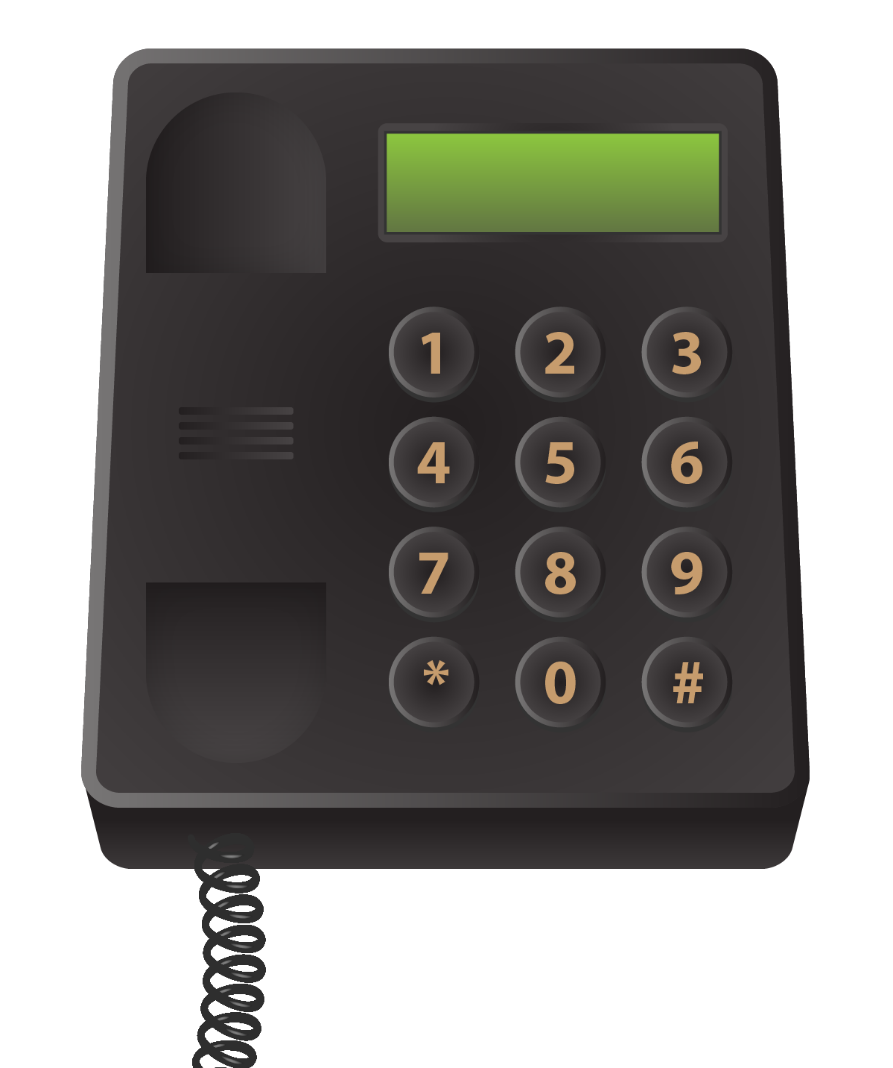
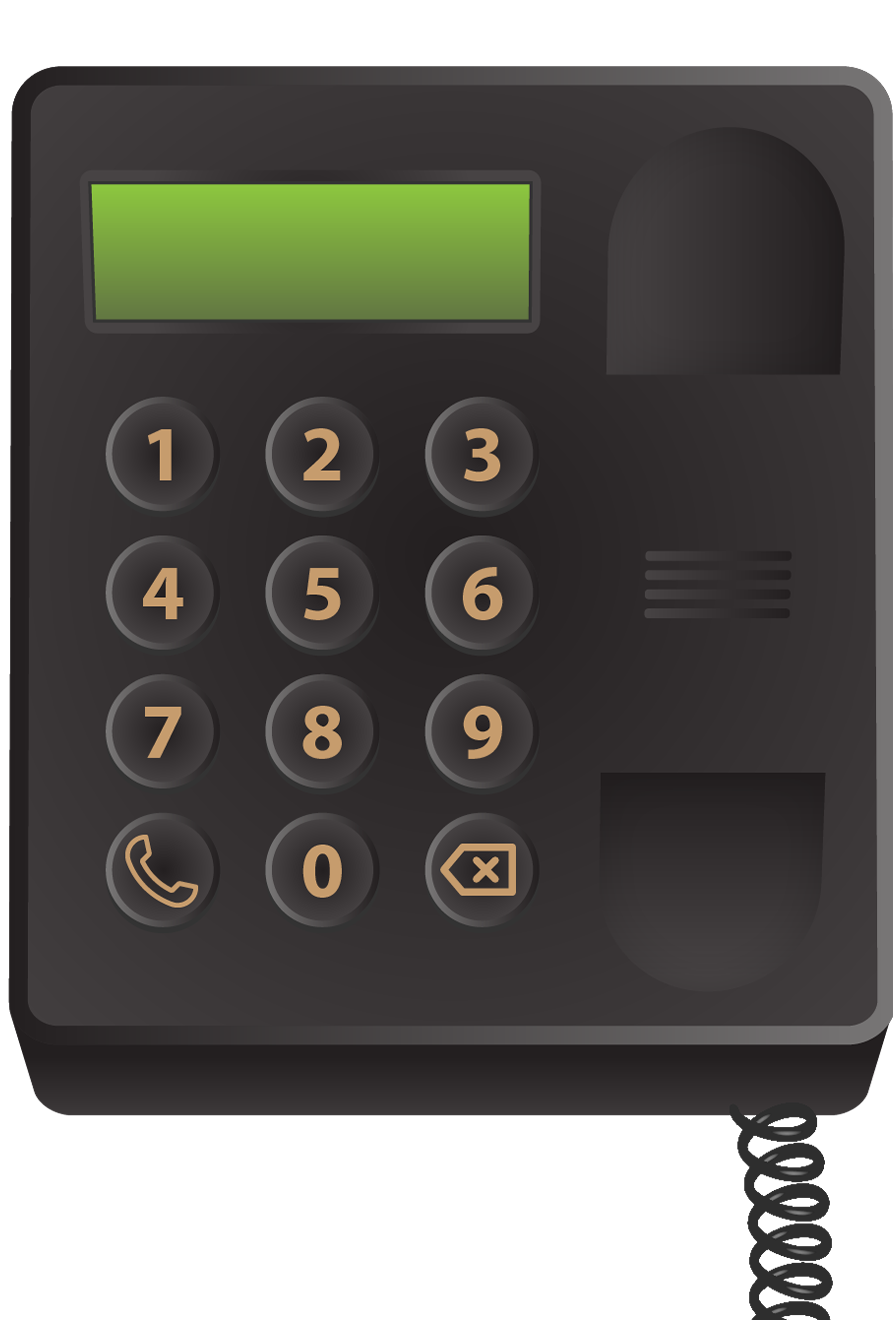
Phone functionality and aesthetics fixed

diff --git a/client/src/components/games/telephone/components/Dialer/index.jsx b/client/src/components/games/telephone/components/Dialer/index.jsx
@@ -44,7 +44,7 @@ export default () => {
  
       flag = 1;
  
-      setCallValues("Wrong number!")
+      setCallValues("Try Again!")
  
       setTimeout(function(){
         flag = 0;
@@ -102,9 +102,10 @@ export default () => {
 
         {/* <button style={{position: 'absolute', backgroundColor: 'transparent', height: '20px' , top: '70%', left: '75%', padding: '2px', color: 'white', border: 'green'}}  onClick={() => eraser()}>Del</button> */}
         {/* <a style={{background:`url(${Backgrounds})`}}  onClick={() => eraser()}></a> */}
-        <a><img src={Backgrounds} alt="my image" style={{position: 'absolute', backgroundColor: 'transparent', height: '30px' , top: '63%', left: '46%', padding: '2px', border: 'green'}} onClick={() => eraser()} /></a>
+        <a><img src={Backgrounds} alt="my image" style={{ opacity: '0', position: 'absolute', backgroundColor: 'transparent', height: '30px' , top: '77%', left: '46%', padding: '2px', border: 'green'}} onClick={() => eraser()} /></a>
+        <a><img src={Backgrounds} onClick={() => setCallButton(true)} alt="my image" style={{ opacity: '0', position: 'absolute', backgroundColor: 'transparent', height: '30px' , top: '77%', left: '11%', padding: '2px', border: 'green'}} /></a>
       </div>
-      <CallButton onClick={() => setCallButton(true)}>Call</CallButton>
+      {/* <CallButton onClick={() => setCallButton(true)}>Call</CallButton> */}
     </Box>
   );
 };

diff --git a/client/src/components/games/telephone/components/Dialer/atom.jsx b/client/src/components/games/telephone/components/Dialer/atom.jsx
@@ -9,7 +9,7 @@ export const Box = styled.div
   max-width: 220px;
   padding: 15px;
   // background: #263238;
-  background-image: url("./telephone2.png");
+  background-image: url("./telephone.png");
   background-size: 100%;
   background-repeat: no-repeat;
   border-radius: 22.5px;
@@ -35,7 +35,7 @@ export const Box = styled.div
 
 export const Input = styled.input`
   width: 70%;
-  margin-bottom: 15px;
+  // margin-bottom: 15px;
   margin-top: 15px;
   border: none;
   background: transparent;
@@ -61,6 +61,7 @@ export const Button = styled.button`
   background: transparent;
   border: none;
   color:  transparent;
+  top: -50px;
   padding: 9px 0;
   text-align: center;
   cursor: pointer;

diff --git a/client/src/components/gameplay/Scene2.js b/client/src/components/gameplay/Scene2.js
@@ -681,7 +681,7 @@ setInterval(function(){
     }
     if(localStorage.getItem('myDataKey') === "1598355449119" ){
       localStorage.setItem('myDataKey', "0");
-      window.location.href = "/timesup";
+      // window.location.href = "/timesup";
     }
 }, 500);  
 
@@ -725,7 +725,7 @@ function obama(){
     var arigato = mins + ":" + secs ;
 
     if (counter === 0){
-      window.location.href = "/timesup"
+      // window.location.href = "/timesup"
     }
   
     return (

diff --git a/client/src/App.css b/client/src/App.css
@@ -764,8 +764,8 @@ h1 span {
   border-color: #F8A61F;
 }
 .alert8 .close {
-  top: -30%;
-  right: 99%;
+  top: -20%;
+  right: 97%;
   width: 15px;
 }
 .alert-inside6 {
